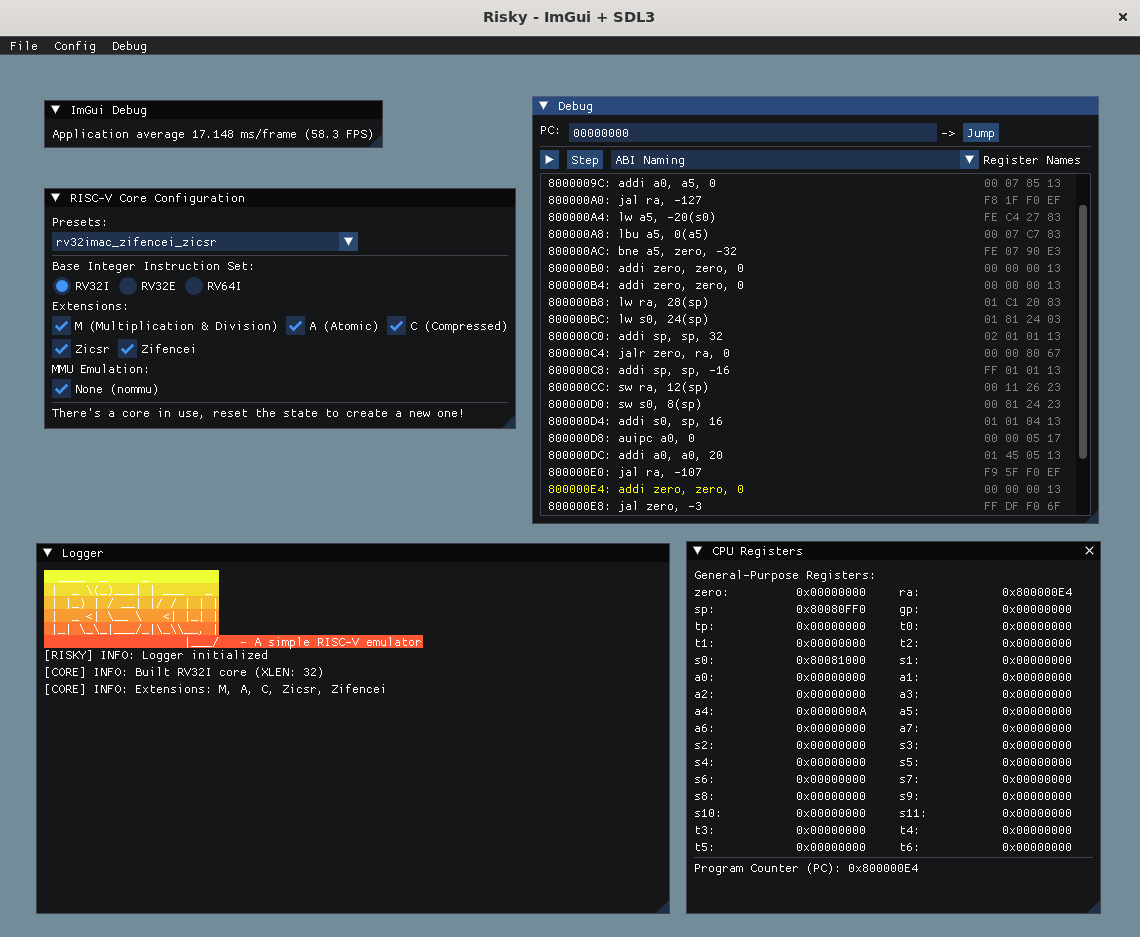
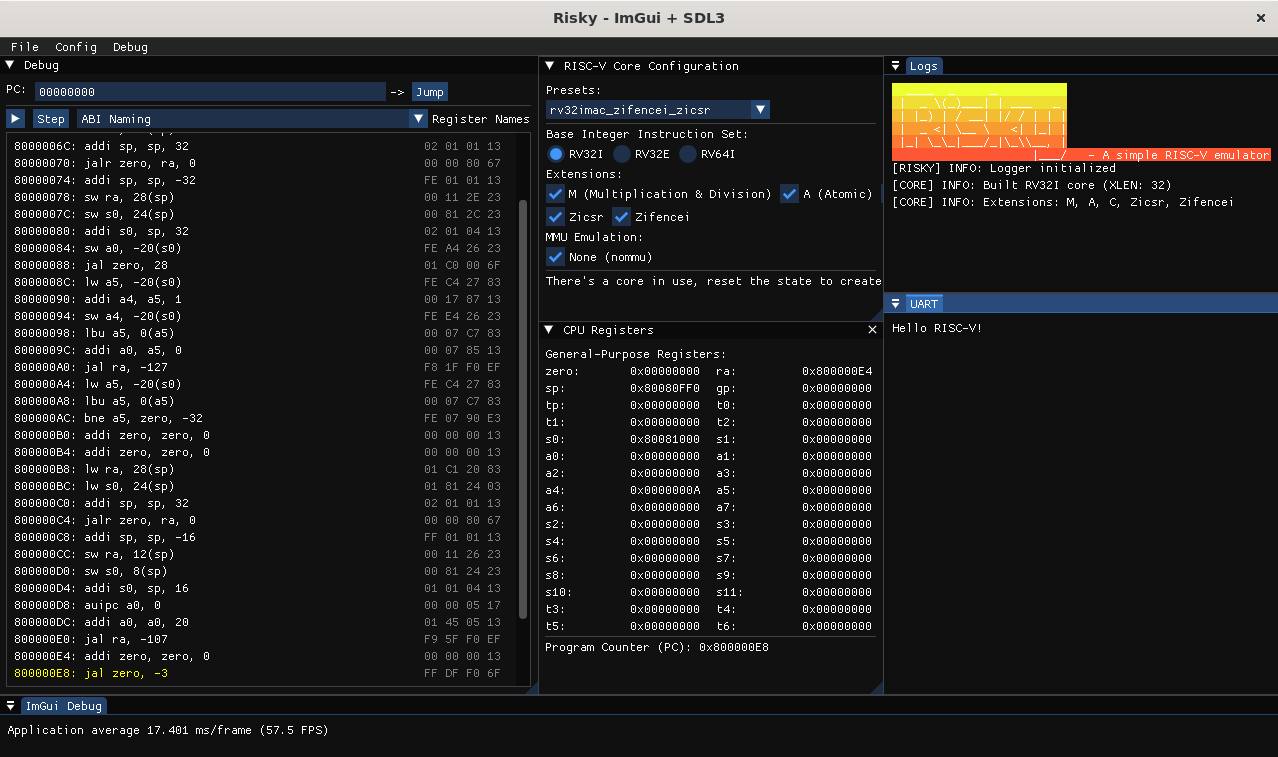
risky: Detach log and uart, add new resource

diff --git a/frontend/imgui/imgui_log.cpp b/frontend/imgui/imgui_log.cpp
@@ -98,10 +98,7 @@ void ImGuiLogBackend::render()
 {
     std::lock_guard<std::mutex> lock(log_mutex);
 
-    ImGui::Begin("Logger");
-
-    if (ImGui::BeginTabBar("LogTabs")) {
-        if (ImGui::BeginTabItem("Logs")) {
+        if (ImGui::Begin("Logs")) {
             for (const auto &entry : log_entries) {
                 if (entry.special) {
                     ImGui::PushStyleVar(ImGuiStyleVar_ItemSpacing, ImVec2(0, 0));
@@ -123,10 +120,10 @@ void ImGuiLogBackend::render()
 
                 if (entry.special) ImGui::PopStyleVar();
             }
-            ImGui::EndTabItem();
+            ImGui::End();
         }
 
-        if (ImGui::BeginTabItem("UART")) {
+        if (ImGui::Begin("UART")) {
             for (const auto &entry : uart_entries) {
                 size_t pos = entry.message.find("UNKNOWN: ");
                 const char *message_to_display = (pos != std::string::npos)
@@ -137,10 +134,8 @@ void ImGuiLogBackend::render()
                 ImGui::TextUnformatted(message_to_display);
                 ImGui::PopStyleColor();
             }
-            ImGui::EndTabItem();
+            ImGui::End();
         }
-        ImGui::EndTabBar();
-    }
+    
 
-    ImGui::End();
 }
